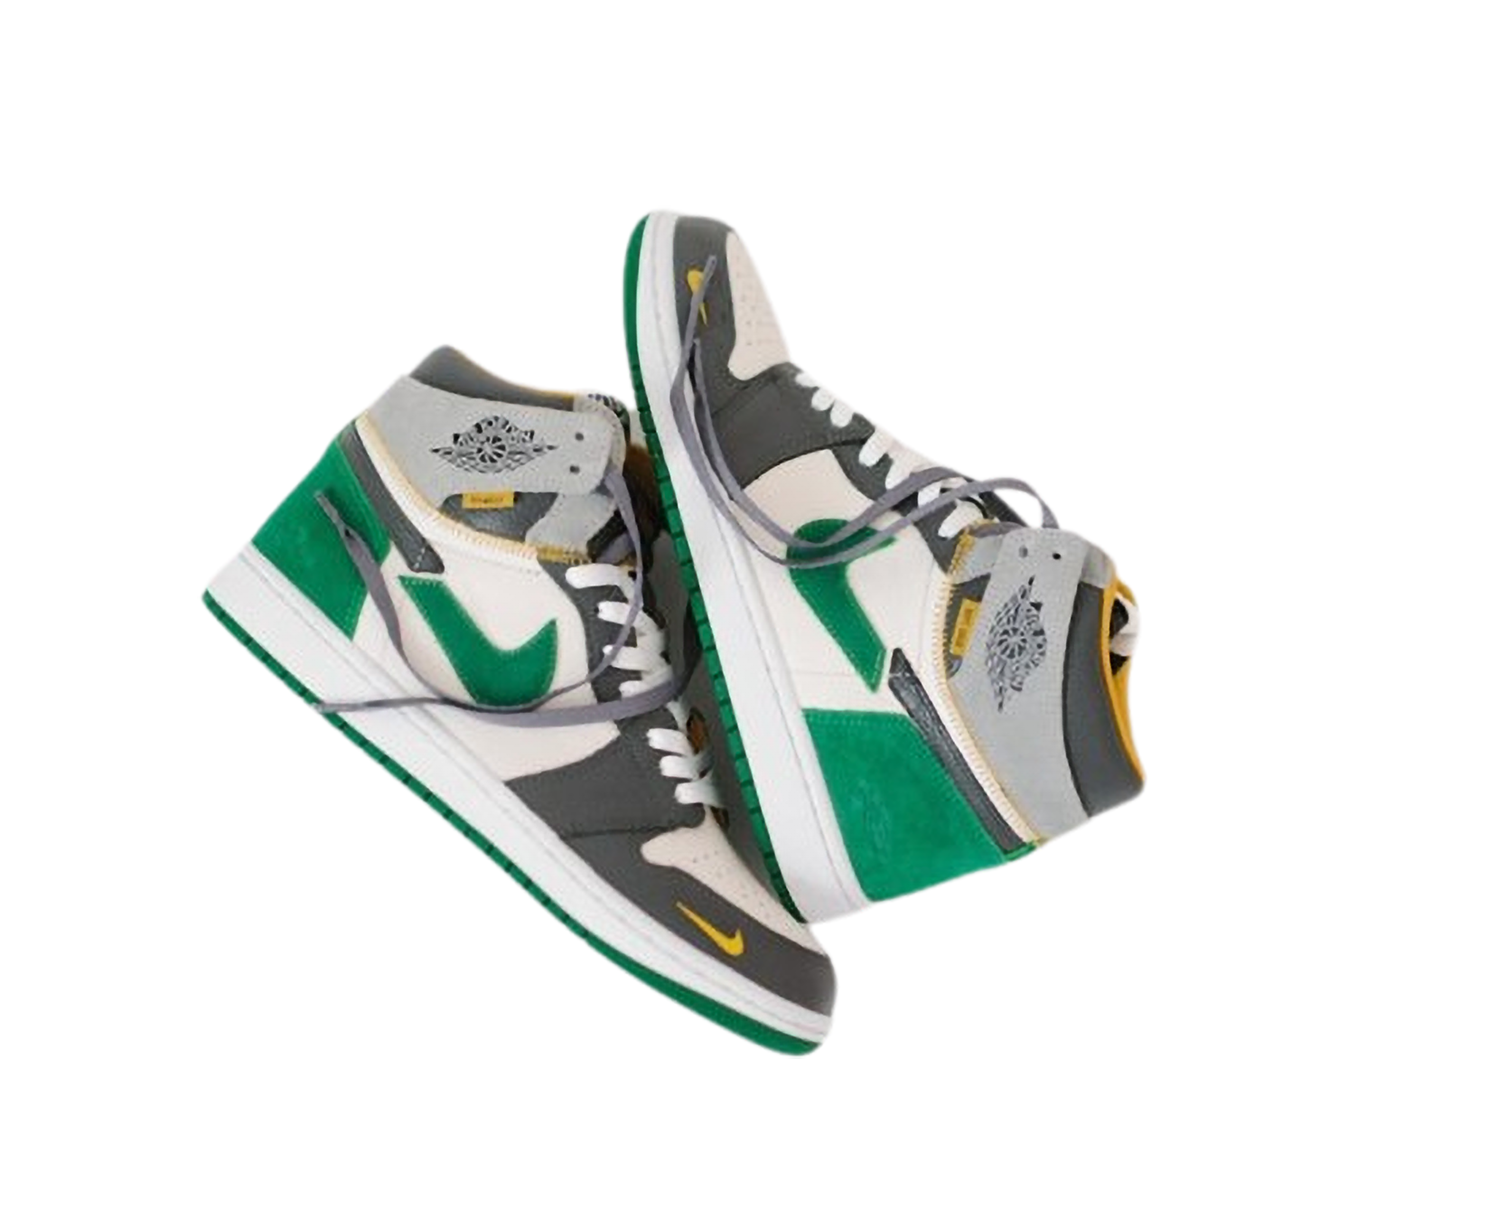
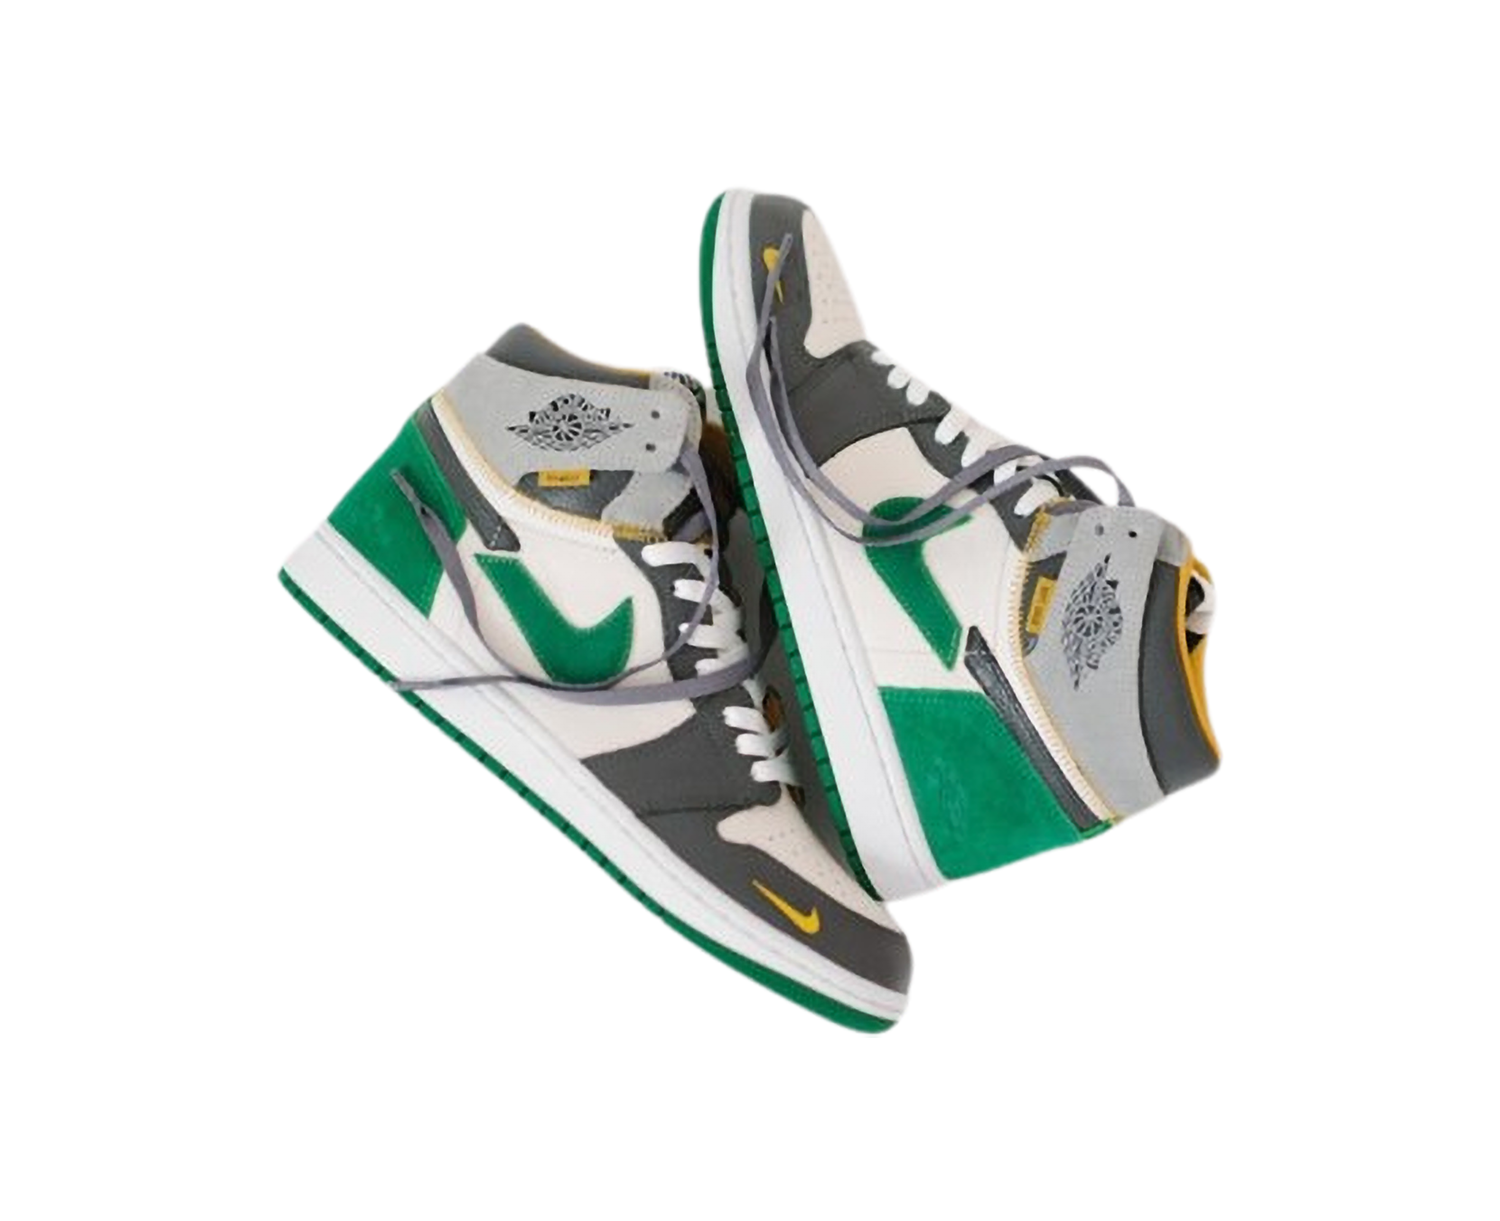
feat: adicionando parte de oferta especial da homepage

Changed region(s): [[0.1227, 0.1556, 0.828, 0.8714]]

diff --git a/src/pages/HomePage/HomePage.css b/src/pages/HomePage/HomePage.css
@@ -101,6 +101,79 @@ svg{
     color: var(--dark-gray-2);
 }
 
+.special-offer{
+    display: flex;
+    justify-content: center;
+    align-items: center;
+    background-color: var(--white);
+    margin: 0;
+    width: 100%;
+}
+
+.image-special-offer { 
+    display: grid;
+    place-items: center;
+    box-sizing: border-box;
+    width: 150%;
+}
+
+.gradient-circle { 
+    width: 500px;
+    height: 500px;
+    border-radius: 50%;
+    background: linear-gradient(to bottom, #eeeeee, #ffffff);
+    grid-area: 1 / 1;
+}
+
+.image-special-offer img { 
+    width: 80%;
+    grid-area: 1 / 1;
+}
+
+.texts-special-offer{
+    padding: 5% 10% 5% 0;
+}
+
+.special-offer-subtitle{
+    font-size: 14px;
+    font-weight: bold;
+    color: var(--primary);
+    margin: 0;
+    padding: 0;
+}
+
+.special-offer-title{
+    font-size: 48px;
+    font-weight: bold;
+    color: var(--dark-gray-2);
+    margin: 0;
+    padding: 0;
+    margin-top: 25px;
+}
+
+.special-offer-description{
+    font-size: 16px;
+    color: var(--dark-gray-2);
+    margin: 0;
+    padding: 0;
+    margin-top: 25px;
+}
+
+.special-offer-btn{
+    width: 200px;
+    font-weight: bold;
+    color: var(--white);
+    background-color: var(--primary);
+    border: none;
+    border-radius: 8px;
+    margin-top: 25px;
+    padding: 15px;
+}
+
+.special-offer-btn:hover{
+    cursor: pointer;
+}
+
 @media(max-width:938px){
     .collections{
         flex-wrap: wrap;

diff --git a/src/pages/HomePage/HomePage.jsx b/src/pages/HomePage/HomePage.jsx
@@ -292,7 +292,18 @@ const HomePage = () => {
       >
         <p>card dos produtos aqq</p>
       </Section>
-      {/* outro banner de edição especial */}
+      <div className="special-offer">
+          <div className="image-special-offer">
+            <div className="gradient-circle"></div>
+            <img src="/produc-image-1.png" alt="Air Jordan edição especial" className="img-so"/>
+          </div>
+          <div className="texts-special-offer">
+            <p className="special-offer-subtitle">Oferta Especial</p>
+            <p className="special-offer-title">Air Jordan edição de colecionador</p>
+            <p className="special-offer-description">Lorem ipsum dolor sit amet consectetur adipisicing elit. Culpa error eius aperiam tempora labore facilis laudantium corrupti nam adipisci eos velit obcaecati, quos soluta nisi, accusamus temporibus, cum neque odit. lorem</p>
+            <button className="special-offer-btn">Ver Oferta</button>
+          </div>
+        </div>
     </>
   );
 };

diff --git a/src/index.css b/src/index.css
@@ -25,4 +25,5 @@
 html, body {
   margin: 0;
   padding: 0;
+  overflow-x: hidden;
 }
